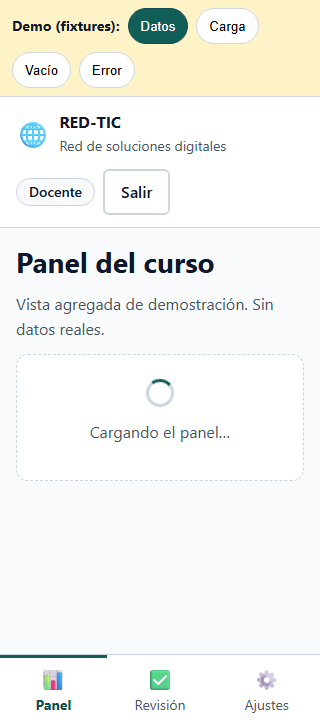
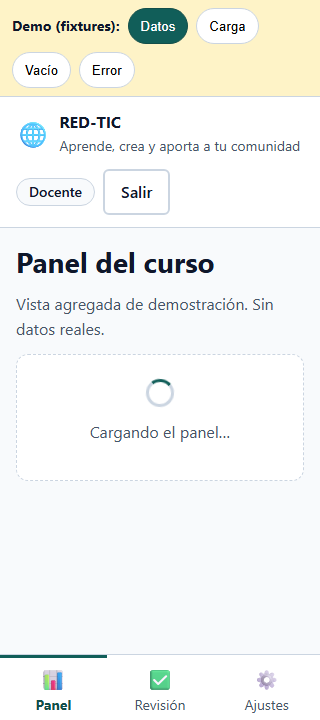
ci(i0a): la prueba axe falla ante cualquier infraccion, agrega workflow CI y corrige rutas

Changed region(s): [[0.1875, 0.1833, 0.9375, 0.2139]]

diff --git a/e2e/a11y.spec.ts b/e2e/a11y.spec.ts
@@ -36,11 +36,12 @@ test('axe-core: hallazgos automatizables en pantallas base', async ({ page }) =>
 
   writeFileSync(`${OUT}/axe-report.json`, JSON.stringify(report, null, 2))
 
-  const critical = Object.entries(report).flatMap(([screen, violations]) =>
-    (violations as { impact: string | null; id: string }[])
-      .filter((v) => v.impact === 'critical')
-      .map((v) => `${screen}: ${v.id}`),
+  // La prueba falla ante CUALQUIER infracción automatizable en estas pantallas.
+  const allViolations = Object.entries(report).flatMap(([screen, violations]) =>
+    (violations as { impact: string | null; id: string }[]).map(
+      (v) => `${screen}: ${v.id} (${v.impact ?? 'sin impacto'})`,
+    ),
   )
 
-  expect(critical, `Violaciones críticas: ${critical.join(', ')}`).toEqual([])
+  expect(allViolations, `Infracciones automatizables: ${allViolations.join(', ')}`).toEqual([])
 })

diff --git a/src/components/AppShell.vue b/src/components/AppShell.vue
@@ -25,7 +25,7 @@ function salir(): void {
         <span class="shell__logo" aria-hidden="true">🌐</span>
         <span>
           <strong>RED-TIC</strong>
-          <span class="shell__subtitle">Red de soluciones digitales</span>
+          <span class="shell__subtitle">Aprende, crea y aporta a tu comunidad</span>
         </span>
       </div>
       <div class="shell__actions">

diff --git a/docs/I0a-RESULTADOS.md b/docs/I0a-RESULTADOS.md
@@ -7,8 +7,11 @@
 
 ## 1. Cómo ejecutar
 
+El proyecto está en la **raíz del repositorio** (no hay subcarpeta).
+
 ```bash
-cd red-tic-app
+git clone https://github.com/margandona/aprende-tic.git
+cd aprende-tic
 npm install
 npm run dev        # http://localhost:4173
 ```
